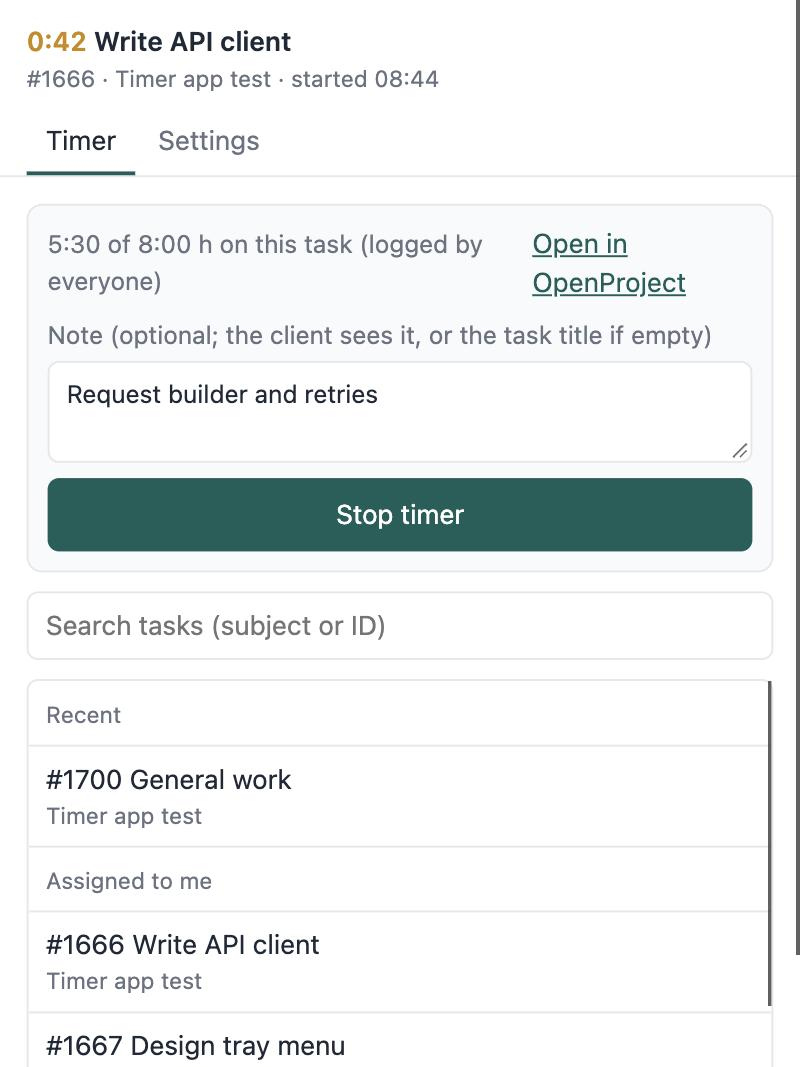
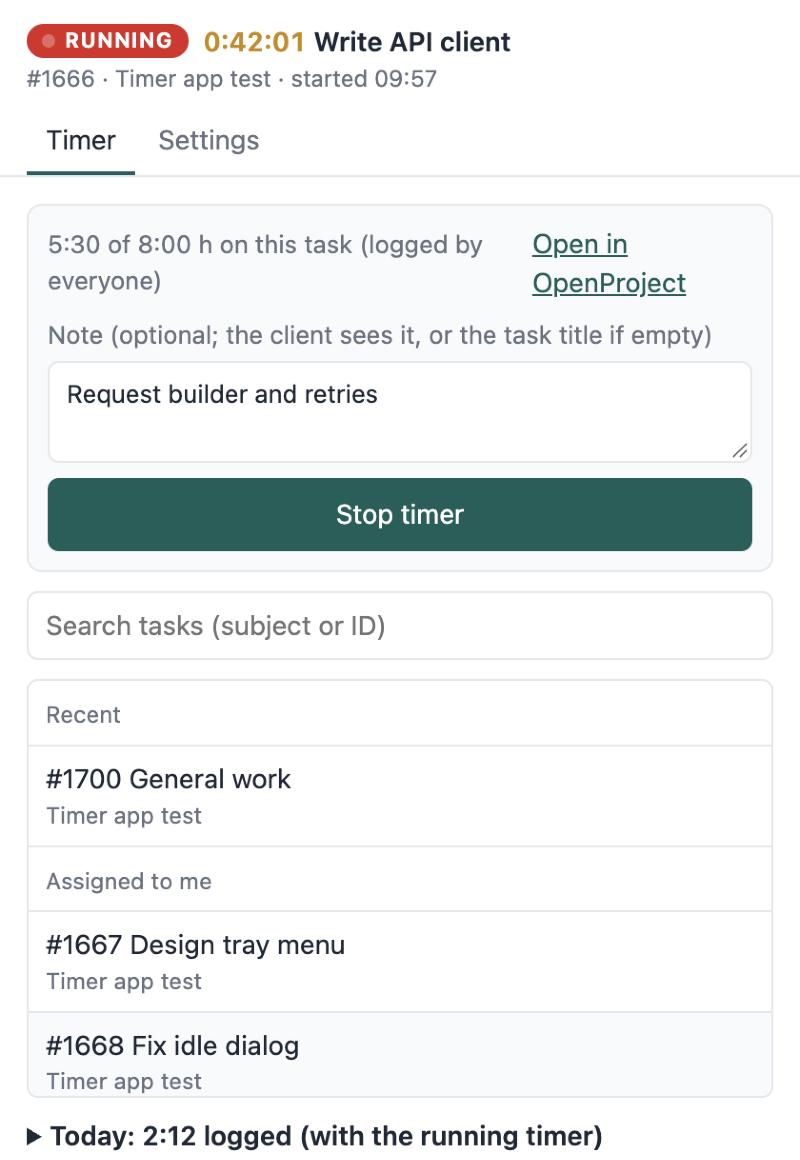
https-only for internet servers, CI checks, changelog, demo GIF
- Refuse plain http:// server URLs except localhost and private networks
- Check workflow (tests, clippy, cargo audit) and Dependabot
- CHANGELOG, CODE_OF_CONDUCT, PR template, package metadata
- Screenshots for 0.4.4 and a demo GIF

Changed region(s): [[0.0312, 0.0, 1.0, 0.9278], [0.0312, 0.8041, 0.75, 1.0], [0.0625, 0.6495, 0.375, 0.7732]]

diff --git a/dev/preview.html b/dev/preview.html
@@ -6,7 +6,7 @@
 // checked in a normal browser. Serve the repo root: python3 -m http.server 8765
 fetch("/ui/index.html").then((r) => r.text()).then((html) => {
   html = html.replace("<head>", '<head><base href="/ui/">').replace("style.css", "style.css?" + Date.now())
-             .replace('<script src="main.js"><\/script>', '<script src="/dev/mock-tauri.js"><\/script><script src="main.js"><\/script>');
+             .replace('<script src="main.js"><\/script>', '<script src="/dev/mock-tauri.js?' + Date.now() + '"><\/script><script src="main.js?' + Date.now() + '"><\/script>');
   document.open(); document.write(html); document.close();
 });
 </script>

diff --git a/dev/mock-tauri.js b/dev/mock-tauri.js
@@ -12,7 +12,7 @@
     settings: { server_url: "http://localhost:8080", idle_minutes: 10, work_start: "09:00", work_end: "18:00", reminders: true, start_at_login: true },
     user: { id: 11, name: "Timer Test" }, timer: null, idle_stop: null, stop_problem: null,
     offline: false, waiting: [], refusal: null,
-    break_available: true, version: "0.4.2",
+    break_available: true, version: "0.4.4",
     today: [
       { id: 501, task: { id: 1667, subject: "Design tray menu", project: "Timer app test" }, hours: 1.5, comment: "Tray layout" },
       { id: 502, task: { id: 1791, subject: "Breaks", project: "Internal" }, hours: 0.25, comment: "Tea" },

diff --git a/src-tauri/src/api.rs b/src-tauri/src/api.rs
@@ -119,7 +119,26 @@ pub fn normalize_base_url(raw: &str) -> std::result::Result<String, String> {
     if !matches!(parsed.scheme(), "http" | "https") {
         return Err("Server URL must start with http:// or https://".into());
     }
+    if parsed.scheme() == "http" && !is_local_host(&parsed) {
+        return Err("Use https:// for this server: over plain http:// your API key would be sent unencrypted. \
+                    (http:// is allowed only for localhost and private network addresses.)"
+            .into());
+    }
     Ok(with_scheme)
+}
+
+/// Loopback, private network addresses and local-only names (.local, .lan, .internal, .localhost),
+/// where plain http doesn't cross the internet.
+fn is_local_host(u: &url::Url) -> bool {
+    match u.host() {
+        Some(url::Host::Ipv4(ip)) => ip.is_loopback() || ip.is_private() || ip.is_link_local(),
+        Some(url::Host::Ipv6(ip)) => ip.is_loopback() || (ip.segments()[0] & 0xfe00) == 0xfc00,
+        Some(url::Host::Domain(d)) => {
+            let d = d.trim_end_matches('.').to_ascii_lowercase();
+            d == "localhost" || [".localhost", ".local", ".lan", ".internal", ".home.arpa"].iter().any(|s| d.ends_with(s))
+        }
+        None => false,
+    }
 }
 
 fn filters(f: Value) -> String {
@@ -489,6 +508,12 @@ mod tests {
         assert_eq!(normalize_base_url(" http://localhost:8080 ").unwrap(), "http://localhost:8080");
         assert!(normalize_base_url("").is_err());
         assert!(normalize_base_url("ftp://x").is_err());
+        // Plain http only where it doesn't cross the internet.
+        assert!(normalize_base_url("http://op.example.com").unwrap_err().contains("https"));
+        for ok in ["http://127.0.0.1:8080", "http://192.168.1.20", "http://10.0.0.5", "http://[::1]:8080",
+                   "http://openproject.lan", "http://op.local", "http://op.localhost"] {
+            assert_eq!(normalize_base_url(ok).unwrap(), ok);
+        }
     }
 
     #[test]

diff --git a/CHANGELOG.md b/CHANGELOG.md
@@ -1,0 +1,50 @@
+# Changelog
+
+Versions follow [semantic versioning](https://semver.org/). Dates are release dates.
+
+## Unreleased
+
+- Plain `http://` server URLs are refused unless the server is on localhost or a private network,
+  so the API key is never sent unencrypted over the internet. An existing setup with such a URL
+  shows "Not set up" until the URL is changed to `https://` in Settings.
+
+## 0.4.4 (2026-11-12)
+
+- The running time shows seconds and a red RUNNING badge, so a fresh timer visibly runs.
+- The tray title starts with "●" while a timer runs.
+
+## 0.4.3 (2026-11-11)
+
+- A timer stopped in the web UI or on another computer no longer causes repeated 403 errors: the
+  app says so and changes nothing.
+- A request log (`requests.log`: time, method, address, status code only) for troubleshooting.
+
+## 0.4.2 (2026-11-11)
+
+- Only one copy runs; opening it again shows the running one.
+- Today list with the day's total; the running task's hours against its estimate.
+- Settings has a button that opens OpenProject's API key page; Esc closes the window.
+
+## 0.4.1 (2026-11-11)
+
+- "Break" in the away question, logged on a "Breaks" task when the server has one.
+- Clearer away question.
+
+## 0.4.0 (2026-11-10)
+
+- Built-in updater and a release script.
+- Offline queue: changes wait with their real times and are sent in order.
+
+## 0.3.0 (2026-11-10)
+
+- Server refusals (HTTP 422) keep the timer running and show the reasons, with a field for a
+  reason when a task is over its estimate (posted as a task comment).
+
+## 0.2.0 (2026-11-07)
+
+- The timer stops by itself after a time without input, and asks on return what that time was.
+- Note at start, recent tasks, reminders during work hours.
+
+## 0.1.0 (2026-11-05)
+
+- First version: start and stop OpenProject's own timer from the tray.

diff --git a/README.md b/README.md
@@ -7,6 +7,8 @@ return what that time was.
 
 Built with Tauri 2 (Rust) and a plain HTML/JS window. License: MIT.
 
+![Demo: pick a task, start the timer, come back after being away](docs/screenshots/demo.gif)
+
 | Running timer | Back after being away | Today | Settings |
 |---|---|---|---|
 | ![Running timer](docs/screenshots/timer.png) | ![Away question](docs/screenshots/away.png) | ![Today list](docs/screenshots/today.png) | ![Settings](docs/screenshots/settings.png) |
@@ -122,7 +124,7 @@ npm run build   # release build: .deb on Linux, .app on macOS (src-tauri/target/
 Or build the Ubuntu `.deb` in Docker from any machine: `scripts/build-deb-docker.sh` writes it to
 `dist/`. On an Apple Silicon Mac use Colima with Rosetta (`colima start --vz-rosetta`).
 
-See [CONTRIBUTING.md](CONTRIBUTING.md) for tests and the UI preview.
+See [CONTRIBUTING.md](CONTRIBUTING.md) for tests and the UI preview, and [CHANGELOG.md](CHANGELOG.md) for what changed.
 
 ## Your own updates
 

diff --git a/CODE_OF_CONDUCT.md b/CODE_OF_CONDUCT.md
@@ -1,0 +1,10 @@
+# Code of conduct
+
+This project follows the [Contributor Covenant, version 2.1](https://www.contributor-covenant.org/version/2/1/code_of_conduct/).
+
+In short: be respectful, assume good intent, and keep discussion about the work. Harassment or
+personal attacks aren't accepted in issues, pull requests or any other project space.
+
+To report a problem, contact the maintainer privately through the email address on
+[their GitHub profile](https://github.com/maidulcu), or open a private security advisory if
+it's urgent. Reports are kept confidential.

diff --git a/.github/pull_request_template.md b/.github/pull_request_template.md
@@ -1,0 +1,6 @@
+**What this changes and why**
+
+**How it was tested**
+- [ ] `cargo test` passes (in `src-tauri`)
+- [ ] Checked in the app or in `dev/preview.html`, if the UI changed
+- [ ] README updated, if behaviour or what the app records changed
